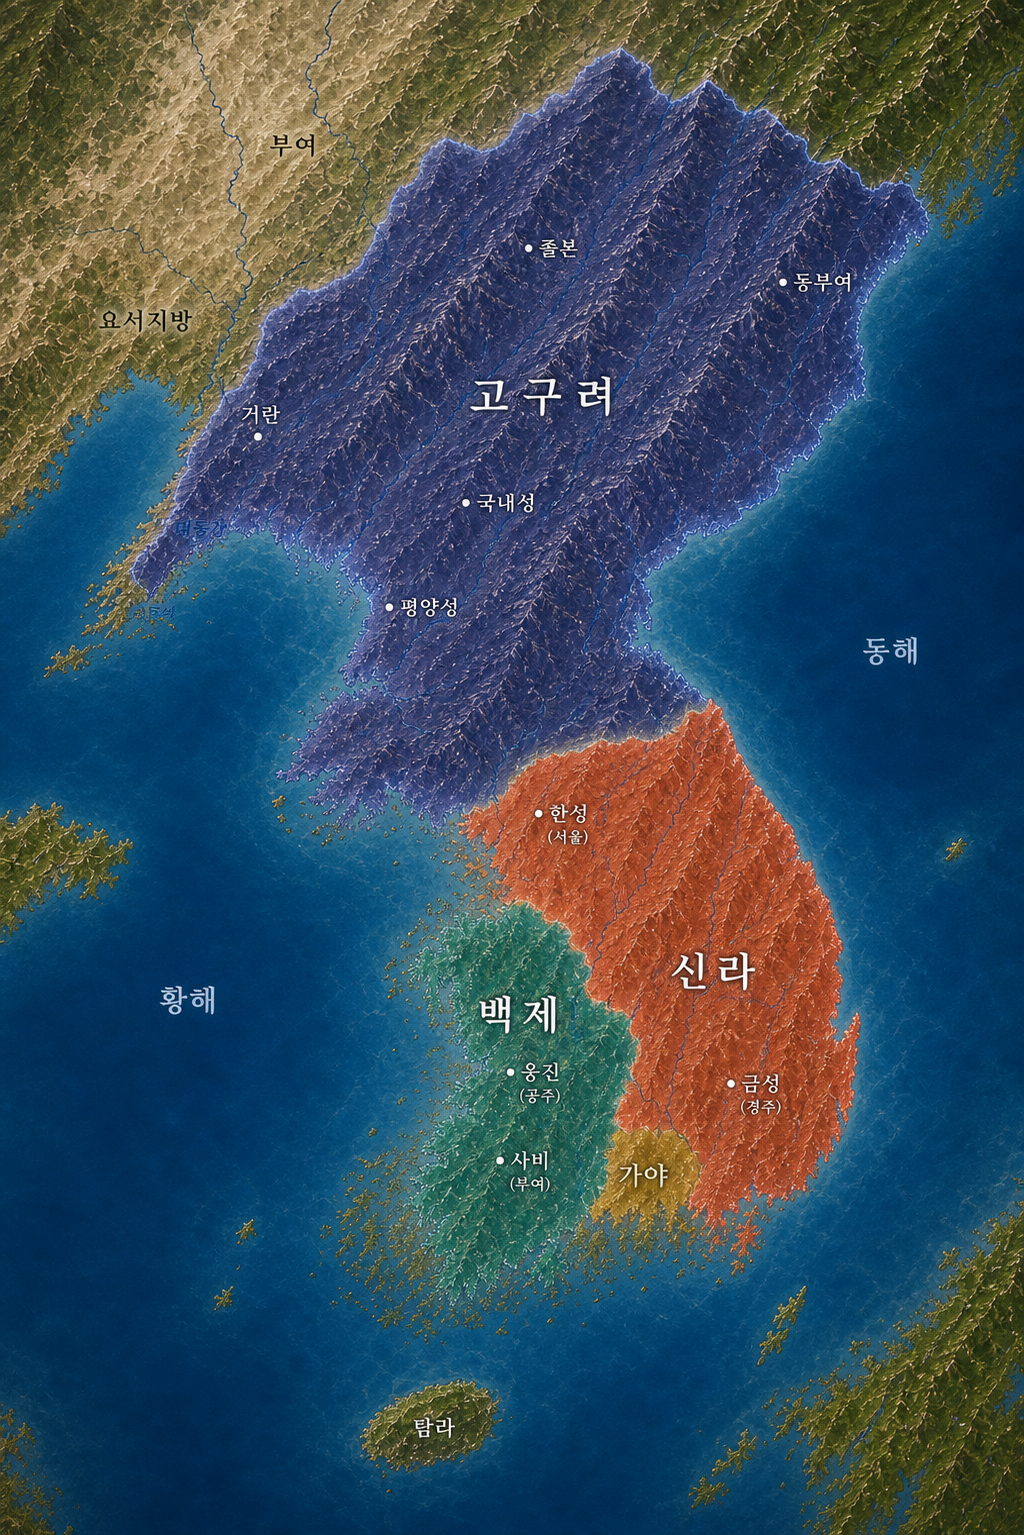
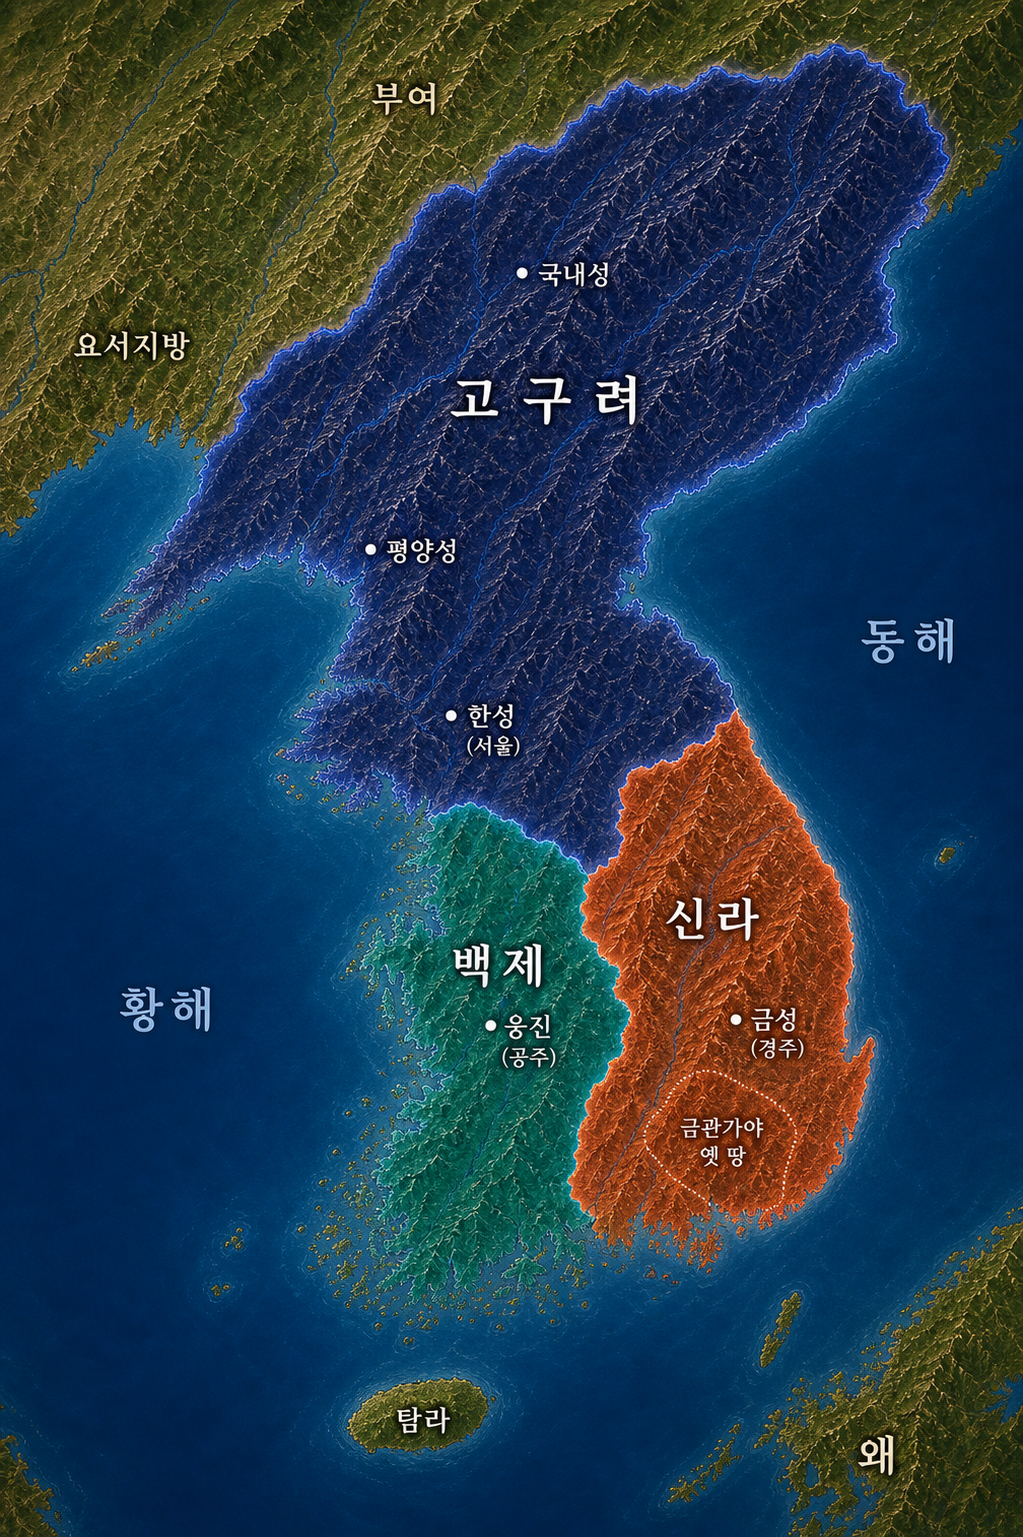
Correct Gaya fall era territory map

diff --git a/samguk-yusa-timeline-v3.html b/samguk-yusa-timeline-v3.html
@@ -419,9 +419,9 @@ const ERAS = [
     cards:[ {k:'baekje', king:'무령왕', icon:'🌾', text:'한성은 고구려 땅이 되었지만, 무령왕은 웅진에서 백제를 다시 튼튼하게 세웠어요.'} ] },
 
   { id:11, yr:"532년 · 562년", short:"가야\n멸망", title:"가야 이야기의 끝 — 이사부 장군",
-    map:{ goguryeo:{v:'peak',m:'normal'}, silla:{v:'peak',m:'normal'}, baekje:{v:'normal',m:'normal'}, gaya:{v:'normal',m:'fading'} },
+    map:{ goguryeo:{v:'peak',m:'normal'}, silla:{v:'normal',m:'normal'}, baekje:{v:'normal',m:'normal'} },
     cards:[ {k:'gaya', king:'구형왕', icon:'💔', text:'532년, 금관가야의 마지막 임금님이 신라에 나라를 넘겨주었어요.'},
-            {k:'silla', king:'이사부 장군', icon:'🛡️', text:'562년, 용맹한 이사부 장군이 마지막 남은 대가야까지 정복해 신라 땅이 크게 넓어졌어요! 이때 한강 유역도 신라 쪽으로 보아요.'} ] },
+            {k:'silla', king:'이사부 장군', icon:'🛡️', text:'562년, 용맹한 이사부 장군이 마지막 남은 대가야까지 정복해 신라 땅이 남쪽으로 더 넓어졌어요!'} ] },
 
   { id:12, yr:"612년", short:"을지문덕\n살수대첩", title:"을지문덕, 살수에서 크게 이기다",
     map:{ goguryeo:{v:'normal',m:'normal'}, silla:{v:'peak',m:'normal'}, baekje:{v:'normal',m:'normal'} },